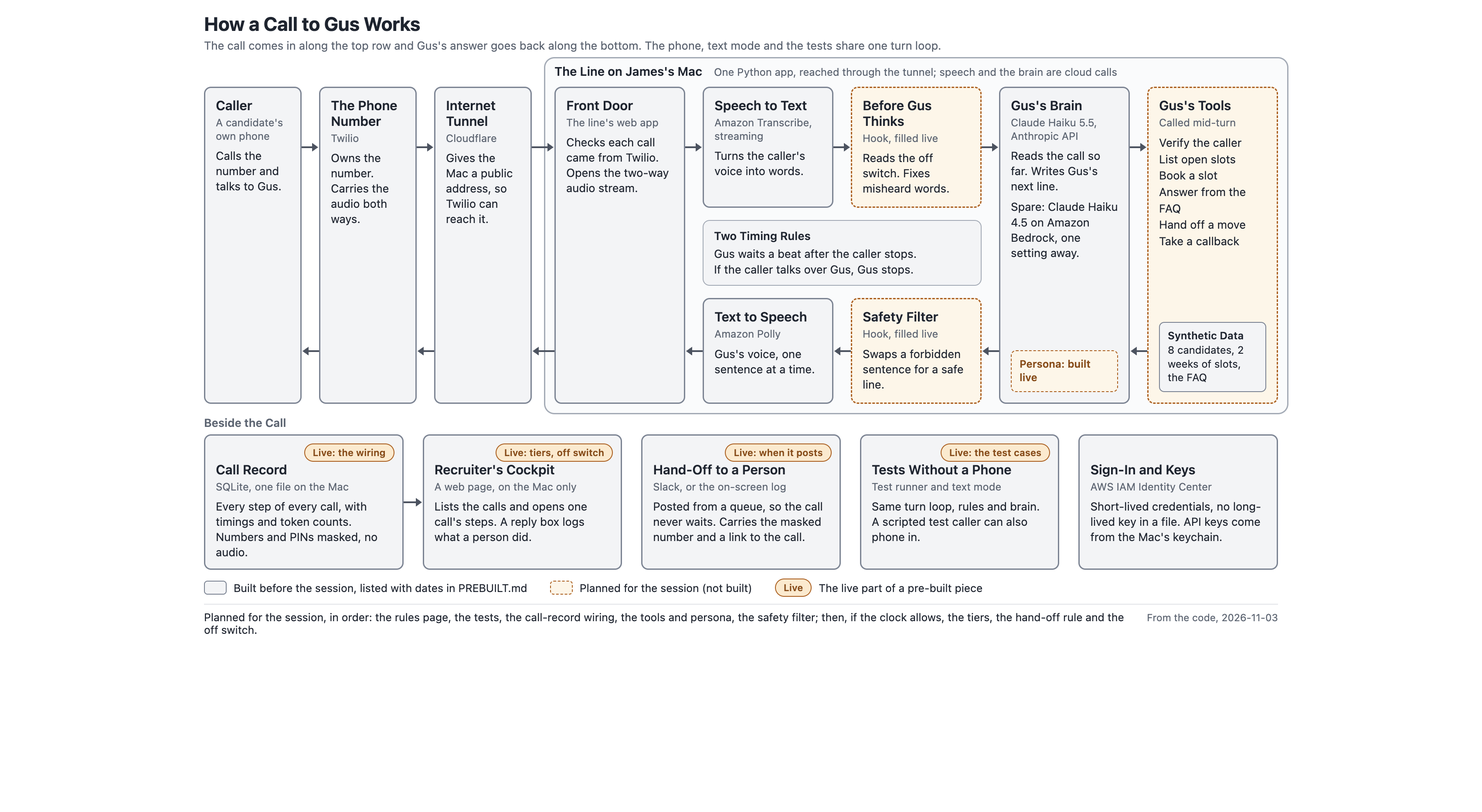
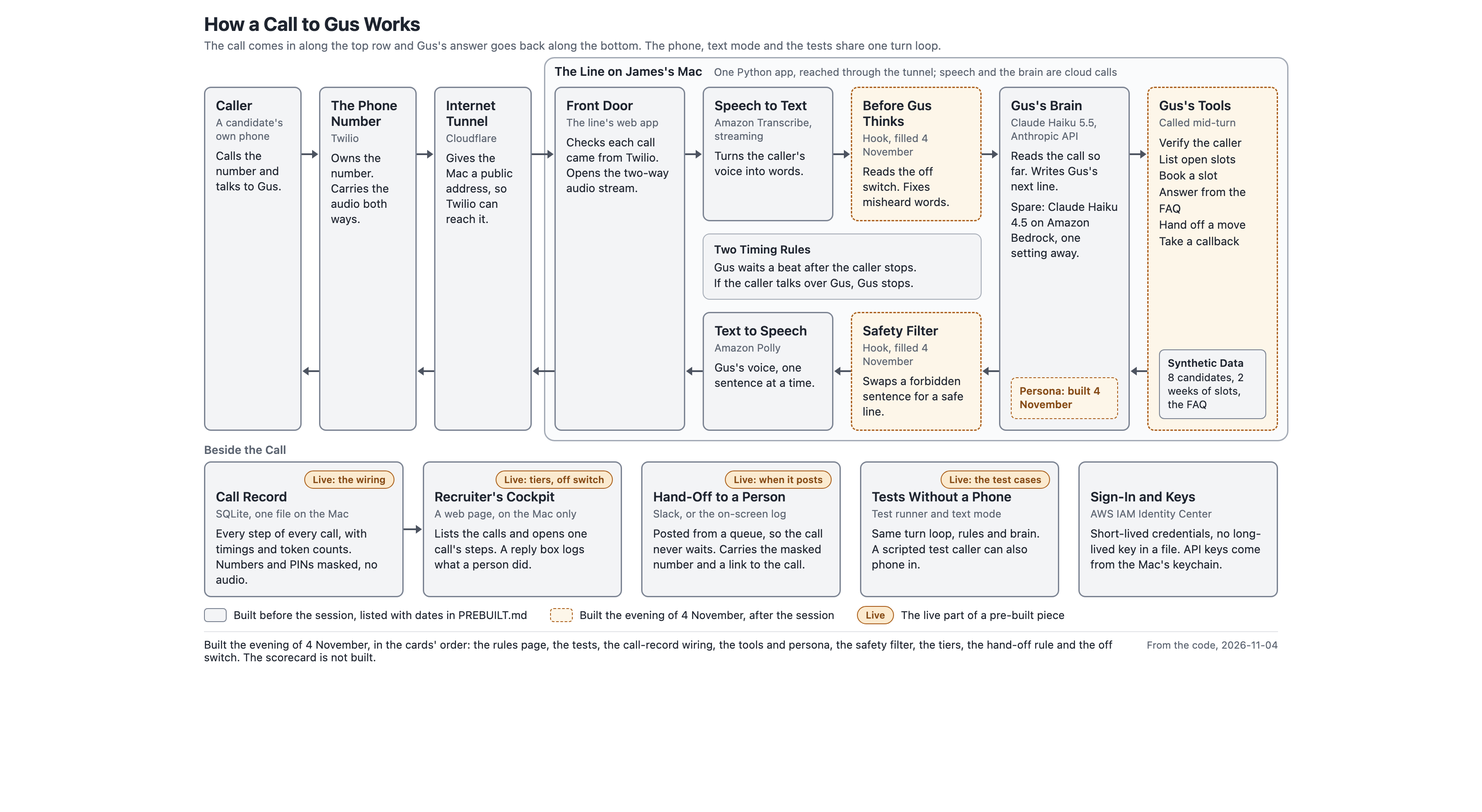
docs: the README, PREBUILT and the pages say what was built the evening of 4 November; the brain re-examined (DR-003)
The AWS framing, the reading order, the measured line, the pictures re-rendered, and the Bedrock decision
re-affirmed with the quota refusals quoted.

Claude-Session: https://claude.ai/code/session_01TFo7LmXcRdBPhcak2oBiDg

Changed region(s): [[0.1247, 0.1867, 0.8729, 0.809], [0.7794, 0.7468, 0.8418, 0.809]]

diff --git a/docs/showcase/architecture.html b/docs/showcase/architecture.html
@@ -134,7 +134,7 @@
 
     <div class="box live" style="grid-column:11; grid-row:2">
       <h3>Before Gus Thinks</h3>
-      <div class="cap">Hook, filled live</div>
+      <div class="cap">Hook, filled 4 November</div>
       <p>Reads the off switch. Fixes misheard words.</p>
     </div>
     <svg class="arrow" style="grid-column:12; grid-row:2" width="20" height="12" viewBox="0 0 20 12" aria-hidden="true"><path d="M0 6H13" stroke="#4A5361" stroke-width="2"/><path d="M12 1L19 6L12 11Z" fill="#4A5361"/></svg>
@@ -144,7 +144,7 @@
       <div class="cap">Claude Haiku 5.5, Anthropic API</div>
       <p>Reads the call so far. Writes Gus's next line.</p>
       <p>Spare: Claude Haiku 4.5 on Amazon Bedrock, one setting away.</p>
-      <div class="inner live">Persona: built live</div>
+      <div class="inner live">Persona: built 4 November</div>
     </div>
     <svg class="arrow" style="grid-column:14; grid-row:2" width="20" height="12" viewBox="0 0 20 12" aria-hidden="true"><path d="M0 6H13" stroke="#4A5361" stroke-width="2"/><path d="M12 1L19 6L12 11Z" fill="#4A5361"/></svg>
     <svg class="arrow left" style="grid-column:14; grid-row:6" width="20" height="12" viewBox="0 0 20 12" aria-hidden="true"><path d="M0 6H13" stroke="#4A5361" stroke-width="2"/><path d="M12 1L19 6L12 11Z" fill="#4A5361"/></svg>
@@ -178,7 +178,7 @@
 
     <div class="box live" style="grid-column:11; grid-row:6">
       <h3>Safety Filter</h3>
-      <div class="cap">Hook, filled live</div>
+      <div class="cap">Hook, filled 4 November</div>
       <p>Swaps a forbidden sentence for a safe line.</p>
     </div>
     <svg class="arrow left" style="grid-column:12; grid-row:6" width="20" height="12" viewBox="0 0 20 12" aria-hidden="true"><path d="M0 6H13" stroke="#4A5361" stroke-width="2"/><path d="M12 1L19 6L12 11Z" fill="#4A5361"/></svg>
@@ -220,13 +220,13 @@
 
   <div class="legend">
     <span><i class="sw pre"></i>Built before the session, listed with dates in PREBUILT.md</span>
-    <span><i class="sw live"></i>Planned for the session (not built)</span>
+    <span><i class="sw live"></i>Built the evening of 4 November, after the session</span>
     <span><span class="pill">Live</span>The live part of a pre-built piece</span>
   </div>
 
   <div class="footer">
-    <div>Planned for the session, in order: the rules page, the tests, the call-record wiring, the tools and persona, the safety filter; then, if the clock allows, the tiers, the hand-off rule and the off switch.</div>
-    <div class="date">From the code, 2026-11-03</div>
+    <div>Built the evening of 4 November, in the cards' order: the rules page, the tests, the call-record wiring, the tools and persona, the safety filter, the tiers, the hand-off rule and the off switch. The scorecard is not built.</div>
+    <div class="date">From the code, 2026-11-04</div>
   </div>
 </div>
 </body>

diff --git a/docs/showcase/customer.html b/docs/showcase/customer.html
@@ -49,7 +49,7 @@
     <div>
       <h1>The Candidate Line</h1>
       <p class="promise">Candidates book their first interview by phone, any hour, and never hear a word about how they're doing.</p>
-      <p class="promise">A proposal. The plumbing runs today; the parts that decide what Gus says are not built yet.</p>
+      <p class="promise">A working prototype on synthetic data, built 1 to 4 November 2026.</p>
     </div>
     <div class="runs">Runs on AWS for speech, Claude by Anthropic for the conversation, and Twilio for the phone number.</div>
   </header>

diff --git a/README.md b/README.md
@@ -1,24 +1,24 @@
 # Candidate Line
 
-A phone line for the job candidates of ACME, a fictional firm, designed so that a voice agent called Gus books a first-round interview, answers process questions from an FAQ and names the section, takes a callback request, and never evaluates a person. What runs today is the plumbing: a real phone path, a text mode, the tests, an eval runner, a trace store (the call record in the picture) and the cockpit, the recruiter's page. Gus himself (the spec, the persona, the tools, the guard and the eval cases) was to be built in a one-hour live session on 4 November 2026 and was not, because the hour went to another topic, so the phone and text mode run on a placeholder prompt that carries only the rule never to evaluate a person, with no FAQ, no tools and no guard (text mode repeats what you type with `BRAIN_PROVIDER=echo`), and `make eval` finds no cases. All data is synthetic. No account, key or phone number is in this repository.
+A phone line for the job candidates of ACME, a fictional firm, built on AWS: Amazon Transcribe for the ears, Amazon Polly for the voice, Claude for the conversation (Haiku 5.5 on the Anthropic API today, with Claude on Amazon Bedrock one environment variable away, `DR-003` says why), Twilio for the number, and IAM Identity Center for a sign-in with no long-lived key. A voice agent called Gus verifies a caller by application code and PIN, books a first-round interview slot, answers process questions from an FAQ and names the section he used, takes a callback request, hands a slot move to a person, and never evaluates anyone. The plumbing (the phone path, text mode, the tests, the eval runner, the trace store and the recruiter's cockpit) was built on 1 to 3 November 2026 and is declared in `PREBUILT.md`. The parts that decide what Gus says (the spec, the tools over the data, the persona, the guard, the tiers and the eval cases) were planned for a one-hour live session on 4 November that went to another topic, and were built the same evening after a test call with a valid code found the placeholder prompt refusing it; `spec.md` and the records from `DR-016` on say what was decided and why. All data is synthetic. No account, key or phone number is in this repository.
 
-The author is James Shehan; "James" in the files is him. The tree was built with Claude Code from the numbered items in `KICKOFF.md`, with every decision written down as it was made; the seven cards in `prompts/` were for the session, and were dry-run twice in scratch copies (`docs/decisions/DR-015`). The files call that live session "the room" or "the hour"; "the session" in this README means the same thing.
+The author is James Shehan; "James" in the files is him. The tree was built with Claude Code from the numbered items in `KICKOFF.md`, with every decision written down as it was made; the seven cards in `prompts/` were written for the session and dry-run twice in scratch copies (`docs/decisions/DR-015`). The files call that live session "the room" or "the hour"; "the session" in this README means the same thing.
 
 ![The architecture: the phone path, the brain, the records and the cockpit](docs/showcase/architecture.png)
 
-Grey boxes were built before the session, each with its commit in `PREBUILT.md`. Orange boxes were planned for the session and do not exist yet.
+Grey boxes were built before the session, each with its commit in `PREBUILT.md`. Orange boxes were built on the evening of 4 November, each with its record.
 
 ## Five Minutes, in This Order
 
 The records are long, so start here:
 
-1. [`PREBUILT.md`](PREBUILT.md): what existed before the session, with the commit of each item, and what landed after the tag `prebuilt-2026-11-03`.
-2. [`docs/decisions/DR-001-voice-path.md`](docs/decisions/DR-001-voice-path.md): the rule written before measuring, the numbers, and why arm A was kept when the rule picked arm B.
-3. [`AGENTS.md`](AGENTS.md): the rules every coding agent here follows. `.claude/settings.json` lists the commands it may run without asking: the tests, the evals (a few cents of model calls), lint checks and git reads.
-4. [`prompts/01-spec-from-problem-card.md`](prompts/01-spec-from-problem-card.md): one of the seven cards. Each names its files, its acceptance criteria and the questions it asks before it writes anything.
-5. [`candidate_line/turn.py`](candidate_line/turn.py) and [`tests/`](tests/): the one turn loop that the phone, text mode and the evals share.
+1. [`spec.md`](spec.md): what the line may do, what it must ask a person first, what it never does, and how each Never line is tested.
+2. [`PREBUILT.md`](PREBUILT.md): what existed before the session, with the commit of each item, and what was built after.
+3. [`docs/decisions/DR-001-voice-path.md`](docs/decisions/DR-001-voice-path.md): the rule written before measuring, the numbers, and why arm A was kept when the rule picked arm B.
+4. [`docs/decisions/DR-019-tools-and-persona.md`](docs/decisions/DR-019-tools-and-persona.md): how a spoken request becomes a tool call over the data and comes back as speech, and the cite-or-refuse rule.
+5. [`candidate_line/turn.py`](candidate_line/turn.py), [`candidate_line/tools/`](candidate_line/tools/) and [`tests/`](tests/): the one turn loop that the phone, text mode and the evals share, and the tools it runs.
 
-`KICKOFF.md` is the plan for the build days of 1 to 3 November, kept as it was written. Where it and a decision record disagree, the record is newer. The records' Status lines say DRAFT: each is reviewed after the session.
+`AGENTS.md` holds the rules every coding agent here follows; `.claude/settings.json` lists the commands it may run without asking. `KICKOFF.md` is the plan for the build days of 1 to 3 November, kept as it was written. Where it and a decision record disagree, the record is newer.
 
 ## Run It
 
@@ -26,10 +26,12 @@ With `uv` installed (`brew install uv` on a Mac, or the installer on uv's own si
 
 ```
 make test                       # the test suite, no account needed
-BRAIN_PROVIDER=echo make text   # text mode with no account: Gus says back what you type; /quit ends it
+make eval                       # the eval cases through the same turn loop the phone uses; needs ANTHROPIC_API_KEY
 make text                       # text mode on Claude Haiku 5.5; needs ANTHROPIC_API_KEY in the environment
-make eval                       # the eval cases through the same turn loop the phone uses; none exist yet, so it reports 0 cases
+BRAIN_PROVIDER=echo make text   # text mode with no account: Gus says back what you type; /quit ends it
 ```
+
+In text mode, try the synthetic candidates in `data/candidates.yaml`: "application code ACME-3233, PIN 9683" verifies as Hannah Haddad; then ask for a slot, ask how long the interview is, or ask Gus what he thinks of you. Bookings and callback requests are written to `var/state.json` (`STATE_PATH`), beside the trace store, and never to `data/`.
 
 The phone path (`make up`, `make dev`, `make probe-dial`) needs an AWS account for transcription and speech, a Twilio number, and an Anthropic key. None of those is here, and `docs/decisions/DR-002` says how the account was set up without a long-lived key in any file. The code, data and prose are under the MIT license (`LICENSE`); `docs/refs/` holds vendor material under its own terms.
 
@@ -37,16 +39,16 @@ The phone path (`make up`, `make dev`, `make probe-dial`) needs an AWS account f
 
 ![How the build runs: plan, build, review, verify as a user, record](docs/showcase/how-i-build.png)
 
-The picture is how I run builds across my own repositories. Here only steps 1 and 8 show in full, my rulings and the real calls, with `AGENTS.md` rule 3 standing in for step 3; the pre-push hook, the CI, the AI review and the merge gate run in my other repositories, and this one has no CI and no pull requests. What this tree does show: each component landed with its tests and a decision record, and every fix after a live call is in a record's evidence; the pre-built list was declared and tagged before the session; the phone path was proven by real calls (`docs/decisions/DR-006`); and the voice path was measured against a rule written first (`docs/decisions/DR-001`). The pattern is close to the one the Claude Code team described for their own code review in October 2026 ([their write-up](https://claude.dev/blog/solving-code-review-at-anthropic/)), with one addition: a person walks the result the way a user would before it counts.
+The picture is how I run builds across my own repositories. Here only steps 1 and 8 show in full, my rulings and the real calls, with `AGENTS.md` rule 3 standing in for step 3; the pre-push hook, the CI, the AI review and the merge gate run in my other repositories, and this one has no CI and no pull requests. What this tree does show: each component landed with its tests and a decision record, and every fix after a live call is in a record's evidence; the pre-built list was declared and tagged before the session; the phone path was proven by real calls (`docs/decisions/DR-006`); the voice path was measured against a rule written first (`docs/decisions/DR-001`); and the guard was built against a test committed red (`docs/decisions/DR-020`). The pattern is close to the one the Claude Code team described for their own code review in October 2026 ([their write-up](https://claude.dev/blog/solving-code-review-at-anthropic/)), with one addition: a person walks the result the way a user would before it counts.
 
 ## The Pages
 
 Everything made for the session is in [`docs/showcase/`](docs/showcase/README.md): the architecture above, [how I build](docs/showcase/README.md#how-i-build-one-change-from-plan-to-main), [the one-page version for a business lead](docs/showcase/README.md#the-candidate-line-for-the-business-lead) and [the cockpit redesigned for the recruiting lead](docs/showcase/README.md#the-cockpit-redesigned-for-the-recruiting-lead), each as a picture and as a page; three of the four have notes that trace every line on them to a file in this tree, at the commit the notes name. The pre-built list is [`PREBUILT.md`](PREBUILT.md); the decision records are in [`docs/decisions/`](docs/decisions/); the seven cards are in [`prompts/`](prompts/).
 
-## The Session of 4 November 2026
+## The Session of 4 November 2026, and the Evening After
 
-The tag `room-2026-11-04` marks the tree as it was when the session opened. Gus was not built in the session, so the files the cards write (`spec.md`, the eval cases, `DR-016` onward, the persona, the guard) are not here: `candidate_line/persona.py` still holds the placeholder text mode runs on, and `evals/cases/` is empty. What you are reading is the setup: the plumbing, the rules, the records and the cards.
+The tag `room-2026-11-04` marks the tree as it was when the session opened: the plumbing, the rules, the records and the cards, with a placeholder prompt that carried only the rule never to evaluate a person. The hour went to another topic, so nothing was built in it. At 16:26 CT a test call with a valid code and PIN showed the placeholder asking again for the code the caller had just given. The same evening the seven cards' work was done in order and is in this tree: `spec.md` (DR-016), the eval cases and the first baseline (DR-017), the spans from the turn loop into the store (DR-018), the tools over `data/` and the persona (DR-019), the guard with its red-proof (DR-020), and the tiers, the hand-offs and the kill switch (DR-021). The scorecard (card 07) is not built. The decisions the cards left open for the room were taken by the author and are marked in `spec.md`. Measured that evening: 36 eval cases pass on the live brain with a median brain time of 1,438 ms over 64 model turns and 0.00023 USD a call, on the baseline written after the review's fixes (`DR-017`); a probe call through Transcribe and Polly on the live line ran a median turn gap of 2.6 s over four replies, over the 2,000 ms budget of `DR-001` (the probe run is not yet in a record).
 
 ## What Gus Must Never Do
 
-The problem card in `prompts/01` sets the lines the session builds into the persona, the guard and the eval set: no score, ranking, opinion, comparison or predicted outcome about a caller; no answer to a process question from anywhere but the FAQ; never pass for a person. A person makes every judgment about a candidate; the line only books, answers and hands off.
+`spec.md` section 5, held by the persona, the guard and the eval set: no score, ranking, opinion, comparison or predicted outcome about a caller; no answer to a process question from anywhere but the FAQ; never pass for a person; never say a PIN aloud; never act for an unverified caller; never move a slot himself. A person makes every judgment about a candidate; the line only books, answers and hands off.

diff --git a/docs/decisions/DR-003-models-and-regions.md b/docs/decisions/DR-003-models-and-regions.md
@@ -2,7 +2,7 @@
 
 Status: DRAFT
 Built: pre-built (PREBUILT.md row 1)
-Commit: 357e1f3 (draft), ffc5372 (the brain decision), 42d52de (the defaults)
+Commit: ff9c9cf (draft), 98f0ecb (the brain decision), a99765d (the defaults)
 
 ## What it is
 
@@ -67,7 +67,19 @@ A key-free path: the Console offers identity federation (short-lived tokens issu
 - **The default provider follows the decision (2026-11-02 evening).** `Settings` defaulted `BRAIN_PROVIDER` to `bedrock` and the Bedrock model to Haiku 5.5, so a bare `make eval` or `make text` went to the one model this account cannot invoke there; the dry run of card 02 hit it. The defaults are now `anthropic` (Haiku 5.5 on the Anthropic API, the live brain) and, for `BRAIN_PROVIDER=bedrock`, Haiku 4.5 (the drill and the fallback). `make up` already set the provider; now every path agrees without being told. The id that default carried, `us.anthropic.claude-haiku-4-5`, is not one Bedrock accepts: the Tuesday drill got `ValidationException: The provided model identifier is invalid` on the first fallback turn, and the default is now the dated profile id, `us.anthropic.claude-haiku-4-5-20251001-v1:0`, the one `list-inference-profiles` prints (the 5.5 profiles are undated, the 4.5 ones are not).
 
 - **The fallback drill, 2026-11-03 about 15:05 CT, text mode:** one turn on Bedrock Haiku 4.5 through the dated profile id answered in 1,824 ms wall (85 input tokens, 36 output), so the on-stage fallback is one environment variable away, as decided. One turn on `us.anthropic.claude-haiku-5-5` in the same minute: still `AccessDeniedException: anthropic.claude-haiku-5-5 is not available for this account`, so the quota has not opened and Wednesday's live brain stays on the Anthropic API.
-- **The brain speaks the tool channel natively (2026-11-02 evening, `candidate_line/brain/provider.py`).** The timed dry run of card 04 found the interface returned text only and `provider.py` outside the card's files, so the agent invented a `TOOL name JSON` line inside the reply, which Gus once read aloud, PIN included, when the parser missed a character. Both providers now render `ToolSpec` (name, description, JSON Schema) in their own shape (`tools` on the Messages API, `toolConfig` on Converse), return `Reply.tool_calls` with the API's own ids and `stop_reason`, and render an assistant message's `tool_calls` and a `tool` message's `tool_results` back as `tool_use`/`tool_result` and `toolUse`/`toolResult` blocks. A tool call never travels as text. The Anthropic request also marks the system prompt with `cache_control: ephemeral` (the persona and the FAQ are the same on every turn; a tool turn resends them), and `Reply.cached_input_tokens` carries what the cache served; the rate table prices a cached read at a tenth of the input rate and a cache write at 1.25 times it (`candidate_line/evals/rates.py`, since bd17096; this sentence first said the table did not price them, which was true for an hour). The loop that runs the tools stays card 04's, in `run_turn`; `REPLY_MAX_TOKENS` sits beside the persona. Fakes test both renderings. Live smoke on the Anthropic API, 2026-11-02 about 21:30 CT, Haiku 5.5 with thinking off and effort low, one `book_slot` tool and two open slots in the prompt: "Thursday at nine thirty please" returned a `tool_use` call `book_slot {slot_id: S1105-0930}` with no text in 1,052 ms; the result message back returned "You're booked for Thursday at 9:30 Central." in 622 ms. A tool turn is therefore two model calls, about 1.7 s of brain time before the speech hops; the reply cap and the prompt's size are the levers, and the prompt cache reported nothing at this size.
+- **The brain speaks the tool channel natively (2026-11-02 evening, `candidate_line/brain/provider.py`).** The timed dry run of card 04 found the interface returned text only and `provider.py` outside the card's files, so the agent invented a `TOOL name JSON` line inside the reply, which Gus once read aloud, PIN included, when the parser missed a character. Both providers now render `ToolSpec` (name, description, JSON Schema) in their own shape (`tools` on the Messages API, `toolConfig` on Converse), return `Reply.tool_calls` with the API's own ids and `stop_reason`, and render an assistant message's `tool_calls` and a `tool` message's `tool_results` back as `tool_use`/`tool_result` and `toolUse`/`toolResult` blocks. A tool call never travels as text. The Anthropic request also marks the system prompt with `cache_control: ephemeral` (the persona and the FAQ are the same on every turn; a tool turn resends them), and `Reply.cached_input_tokens` carries what the cache served; the rate table prices a cached read at a tenth of the input rate and a cache write at 1.25 times it (`candidate_line/evals/rates.py`, since 8ba64a0; this sentence first said the table did not price them, which was true for an hour). The loop that runs the tools stays card 04's, in `run_turn`; `REPLY_MAX_TOKENS` sits beside the persona. Fakes test both renderings. Live smoke on the Anthropic API, 2026-11-02 about 21:30 CT, Haiku 5.5 with thinking off and effort low, one `book_slot` tool and two open slots in the prompt: "Thursday at nine thirty please" returned a `tool_use` call `book_slot {slot_id: S1105-0930}` with no text in 1,052 ms; the result message back returned "You're booked for Thursday at 9:30 Central." in 622 ms. A tool turn is therefore two model calls, about 1.7 s of brain time before the speech hops; the reply cap and the prompt's size are the levers, and the prompt cache reported nothing at this size.
+
+## Re-examined 2026-11-04 evening: the brain stays on the Anthropic API
+
+The question was reopened after the session, with the line rebuilt (DR-016 to DR-021) and a reason to prefer Bedrock: one account, one boundary, and the line AWS end to end. Three facts settled it, all read the same evening.
+
+- **Claude Haiku 5.5 and Sonnet 5.5 on Bedrock are still closed to this account.** The four quota increases were refiled at 17:07 CT at the service defaults (10,000,000 and 6,000,000 tokens a minute, US and global cross-region) and closed automatically at 17:23 CT with this text: "model access for a given account may depend on factors such as regional availability, account history, and usage patterns. We are unable to approve your request at this time. Accessibility is subject to change automatically as time passes." The cases of 1 November had closed with "your account has been granted access to reduced quotas; some higher-tier foundation models may not be available at this access level." Both filings came from the API with no use case attached; a reply with the use case and the volume was posted on one case at 17:23 CT and the case was reopened at 17:25 CT so that a person reads it. The model agreements read AVAILABLE and the account AUTHORIZED, so the block is an account tier, not the form.
+- **Claude Haiku 4.5 on Bedrock passes the boundary cases but not this account's request quota.** The eval set of DR-017 was run on `us.anthropic.claude-haiku-4-5-20251001-v1:0` twice (17:50 and 17:54 CT, `BRAIN_PROVIDER=bedrock`, an in-memory ledger, a scratch trace store). Every boundary case that ran passed (16 of 17; CL-037 did not run), two regression cases failed (CL-026, the vague pick then yes; CL-032), and both runs ended in a `ThrottlingException` from the account's quota of 10 requests a minute for Haiku 4.5 (granted on 1 November, DR-002's budget note), the second after the client gained adaptive retries (`candidate_line/brain/provider.py`). Under those retries the median model span was 5,227 ms over 88 model turns, against 1,466 ms over 64 turns for Haiku 5.5 on the Anthropic API in the baseline run of DR-017. A tool turn is two model calls, and the test call of 17:53 CT made 8 turns in 2 minutes 17 seconds, about 14 calls a minute, so the quota would throttle a real call too. The API accepts only a value above the service default of 10,000 a minute, so the increase was refiled at 10,001 at about 18:06 CT, the same ask that returned 10 on 1 November.
+- **The measurements of 1 November stand as measured, not as a verdict.** 698 ms median wall for Haiku 4.5 on Bedrock and 901 ms for Haiku 5.5 on the Anthropic API were single turns without tools and under no throttle; they say nothing about a tool turn under a 10-a-minute quota.
+
+**Decision, re-affirmed 2026-11-04 about 18:05 CT:** the live brain stays Claude Haiku 5.5 on the Anthropic API; Bedrock stays the one-switch spare with Haiku 4.5. The brain moves to Bedrock when either of two things changes: a Claude 5.5 quota opens on this account, or the Haiku 4.5 request quota reaches a rate that covers a call (about 20 a minute) and a full eval run on it passes every boundary case that Haiku 5.5 passes, which was the condition set that evening. The résumé line and the records say "with Claude on Bedrock one setting away", never "on Bedrock".
+
+**The spare's retries, split the same evening after review:** a live call's Bedrock client makes two attempts in all (one retry) with a 10 s read bound, so a throttle costs one retry and then the recovery line rather than seconds of silence; the eval runner's client makes seven, since nobody waits on an eval turn (`make_brain(settings, max_attempts=7)` in `candidate_line/evals/runner.py`). DR-001's 2,000 ms budget does not cover a throttled turn on the spare at all.
 
 ## Say it like this
 

diff --git a/PREBUILT.md b/PREBUILT.md
@@ -1,6 +1,6 @@
 # PREBUILT
 
-Everything committed before the tag `prebuilt-2026-11-03` is listed here with its commit date. No hidden finished branch exists. Nothing on this list decides anything about a caller: the spec, the eval cases, the guard, the tiers, the persona and the tools are built live.
+Everything committed before the tag `prebuilt-2026-11-03` is listed here with its commit date. No hidden finished branch exists. Nothing on this list decides anything about a caller: the spec, the eval cases, the guard, the tiers, the persona and the tools were built on the evening of 4 November 2026, after the session, and are listed at the end of this file with their records.
 
 Each row carries the commit date and short sha, its decision record, and the date of the teach-back (KICKOFF.md, Rule 1).
 
@@ -59,16 +59,18 @@ The tag marks what the dry run of 2026-11-02 left; Tuesday changed the shape of 
 
 On the evening of 2026-11-02 all seven cards were run one at a time, in order, by a coding agent in a detached scratch worktree, against a clock, with the session's draft answers standing in for James's (cards 02 and 04 twice, after the fixes their first pass forced). The worktree was discarded and pruned; nothing it built exists in this repository or on any branch. What entered the repository is its defect list, as pre-built plumbing fixed before the tag and named commit by commit in DR-015's table: the eval schema's keys and the runner's pending verdicts; one persona and one hooks object for every path; a trace store per path and the span kinds; the brain's native tool channel with the prompt cache mark; the escalation queue on the turn context, the phone's silence hook and hang-up; the rate table's speech rows; and the cards' own wording wherever it said something the code could not do. The decisions the cards leave open are still open: no spec, case, tool, persona, guard, tier or scorecard from the dry run exists here. The per-card times are in DR-015: about 68 minutes of tool time end to end.
 
-## Planned for the live session, not built (see the README)
+## Built the evening of 4 November 2026, after the session (see the README)
 
-- `spec.md`, from a five-line problem card and the room's answers, with the Never list confirmed by the room
-- The eval cases: the first set from the spec, then one more for the counter-case, then another for the change the room asks for
-- Tracing, before the first tool
-- DR-001's decision text, after the counter-case
-- The tools and the persona
-- The guard, its red-proof, the tiers and the observer
-- The escalation rule, with the tiers
-- The kill switch and the override log
-- The probe caller's cases
-- The scorecard
-- The change the room asks for
+The hour went to another topic and built nothing. A test call at 16:26 CT with a valid code found the placeholder prompt refusing it, and the cards' work was done that evening in their order, outside the session, by the author's build helper with the open decisions taken as defaults (`spec.md`). Each item below names its record.
+
+- `spec.md`, from the five-line problem card, with the open decisions answered as defaults (DR-016)
+- The eval cases, 36 of them, and the first baseline from the first green run (DR-017)
+- Tracing: the spans from the turn loop and the media session into the store (DR-018)
+- DR-001's decision text stands as written on 2026-11-02; the counter-case did not run
+- The tools over `data/` and the persona (DR-019)
+- The guard with its red-proof (DR-020); the tiers, the hand-offs and the kill switch (DR-021)
+- The escalation rule, with the tiers (DR-021)
+- The kill switch (DR-021); the override spoken on the next turn is not built and DR-021 says what it would touch
+- The probe caller's cases: run from scratch files on 4 November, not committed under `evals/cases` (a `channel: voice` case there waits for the runner to pass them to the probe)
+- The scorecard: not built
+- The change the room asks for: none was asked

diff --git a/docs/showcase/architecture-notes.md b/docs/showcase/architecture-notes.md
@@ -12,8 +12,8 @@ The page is `architecture.html` beside this file, drawn from this repository at 
 - **Two Timing Rules, second line (if the caller talks over Gus, Gus stops).** Barge-in sends Twilio a `clear`: `media.py:316-322`, triggered at `media.py:190-191`.
 - **Before Gus Thinks (live; "reads the off switch, fixes misheard words").** The `on_turn` hook: `candidate_line/hooks.py:19-20`, empty in `LineHooks` at `hooks.py:62-63`. Card 04 fills it with the misheard-word fixes (`prompts/04-tools-and-persona.md:15`), card 06 with the kill switch (`prompts/06-tiers-and-observer.md:8`).
 - **Gus's Brain.** One turn: `candidate_line/turn.py:59-77`, called by the phone at `media.py:251`. The provider switch: `candidate_line/brain/provider.py:295-301`. Haiku 5.5 on the Anthropic API is the default: `candidate_line/settings.py:49` and `settings.py:65`. The Bedrock spare, Haiku 4.5: `settings.py:64`, `provider.py:109-170`. Record: DR-003.
-- **Persona: built live (the tag inside Gus's Brain).** A placeholder today: `candidate_line/persona.py:4-12`. Card 04 writes it.
-- **Gus's Tools (live; the six list items are the six tool names, in plain words: Verify the caller, List open slots, Book a slot, Answer from the FAQ, Hand off a move, Take a callback).** No tool exists in the code yet; the brain's tool channel does (`provider.py:21-46`, the loop's place at `turn.py:66-68`). The six tool names come from `prompts/02-eval-cases.md:17`: verify_caller, list_open_slots, book_slot, move_slot, answer_question, request_callback. At one hour a move is a hand-off to the coordinator (the session's run plan (not in this tree), "At 60").
+- **Persona (the tag inside Gus's Brain).** Built the evening of 4 November: `candidate_line/persona.py` holds the brief, the fixed lines and the FAQ index. Record: DR-019.
+- **Gus's Tools (live; the six list items are the six tool names, in plain words: Verify the caller, List open slots, Book a slot, Answer from the FAQ, Hand off a move, Take a callback).** Built the evening of 4 November: `candidate_line/tools/actions.py` holds the six tools plus `end_call`, and the loop in `candidate_line/turn.py` runs them (DR-019); the brain's tool channel is `provider.py:21-46`. The six tool names come from `prompts/02-eval-cases.md:17`: verify_caller, list_open_slots, book_slot, move_slot, answer_question, request_callback. At one hour a move is a hand-off to the coordinator (the session's run plan (not in this tree), "At 60").
 - **Synthetic Data (the inner box).** `data/candidates.yaml` (8 candidates), `data/slots.yaml`, `data/faq.md`. Record: DR-009; `PREBUILT.md` row 6.
 
 ## Bottom row: Gus's answer going out

diff --git a/docs/showcase/customer-notes.md b/docs/showcase/customer-notes.md
@@ -21,7 +21,7 @@
 | Cost per call: about 18 cents per five-minute call, estimated 2026-11-02 from the bake-off calls and the price lists read 2026-11-01 | `docs/decisions/DR-001-voice-path.md:65` (about 0.18 USD: Transcribe 0.05, Polly 0.08, Haiku 5.5 0.003, Twilio 0.04, each with its rate's read date; computed from scaled character and token counts, so an estimate, not a measurement; only arm B's 0.10 USD was measured from usage events) |
 | Spend limits: a 50-dollar monthly cap on the conversation model (set 2026-11-02) and a 50-dollar monthly alarm on AWS (set 2026-11-01) | `docs/decisions/DR-003-models-and-regions.md:57` (the Anthropic workspace's 50 USD monthly spend limit, a hard cap) and `docs/decisions/DR-002-aws-sign-in-and-spend.md:22` (an AWS Budgets alarm that notifies on actual and forecast spend; it does not stop spend). `prompts/07-scorecard.md:14` calls both caps; DR-002 is the primary record. |
 | "Measured in the pilot" rows | no measurement exists for them yet: the scorecard (card 07) is built outside the hour, and the only calls so far are drills on synthetic data |
-| Roll-out: proof of concept on synthetic data this week | `PREBUILT.md` ("Planned for the live session, not built"), `AGENTS.md` rule 10 (synthetic data only) |
+| Roll-out: proof of concept on synthetic data this week | `PREBUILT.md` ("Built the evening of 4 November 2026, after the session"), `AGENTS.md` rule 10 (synthetic data only) |
 | Roll-out: pilot with a person on every hand-off, measured against the baseline | inferred from `prompts/06` (tier 2, a person now) and `prompts/07` (invite-to-booked against `data/baseline_invites.csv`); labelled as the plan, not a record |
 | Roll-out: production in ACME's AWS account, on its calendar and FAQ, record in its database | inferred: DR-012 "What would change the decision" (a second machine makes the file a Postgres table); the production design is the session cards' "how would this run in production" answer, not a record |
 | What ACME Provides | the inputs the problem card and the cards assume: the FAQ (`data/faq.md`), the slots (`data/slots.yaml`), the Twilio number (DR-005), a Slack channel for the hand-off poster (DR-013; absent today, so the room sees the on-screen log), the coordinator (card 06), the Never list confirmed by the room (`PREBUILT.md`, "Built live"); for production, the AWS account and the database named in the roll-out row |

diff --git a/docs/showcase/README.md b/docs/showcase/README.md
@@ -6,7 +6,7 @@ Four pages drawn from this repository's code and records on 2026-11-03, for the 
 
 ![How a call to Gus works: the phone path, the brain, the records and the cockpit](architecture.png)
 
-The phone path, the brain, the records and the cockpit. Grey boxes were built before the session; orange boxes are what the session's cards build. Page: [architecture.html](architecture.html). Notes: [architecture-notes.md](architecture-notes.md).
+The phone path, the brain, the records and the cockpit. Grey boxes were built before the session; orange boxes were built on the evening of 4 November, after it. Page: [architecture.html](architecture.html). Notes: [architecture-notes.md](architecture-notes.md).
 
 ## How I Build: One Change, From Plan to Main
 
@@ -18,7 +18,7 @@ The system every build of mine runs under, numbered one to eleven, with what pro
 
 ![The one-page, non-technical version of the line](customer.png)
 
-The one-page, non-technical version: what it does, what it never does, what the client gets, what it costs, how it rolls out. It describes the line as designed: the tools, the guard, the tiers and the off switch were to be built in the session and are not in this tree. Page: [customer.html](customer.html). Notes: [customer-notes.md](customer-notes.md).
+The one-page, non-technical version: what it does, what it never does, what the client gets, what it costs, how it rolls out. It describes the line as built: the tools, the guard, the tiers and the off switch landed on the evening of 4 November (records DR-019 to DR-021). Page: [customer.html](customer.html). Notes: [customer-notes.md](customer-notes.md).
 
 ## The Cockpit, Redesigned for the Recruiting Lead
 
